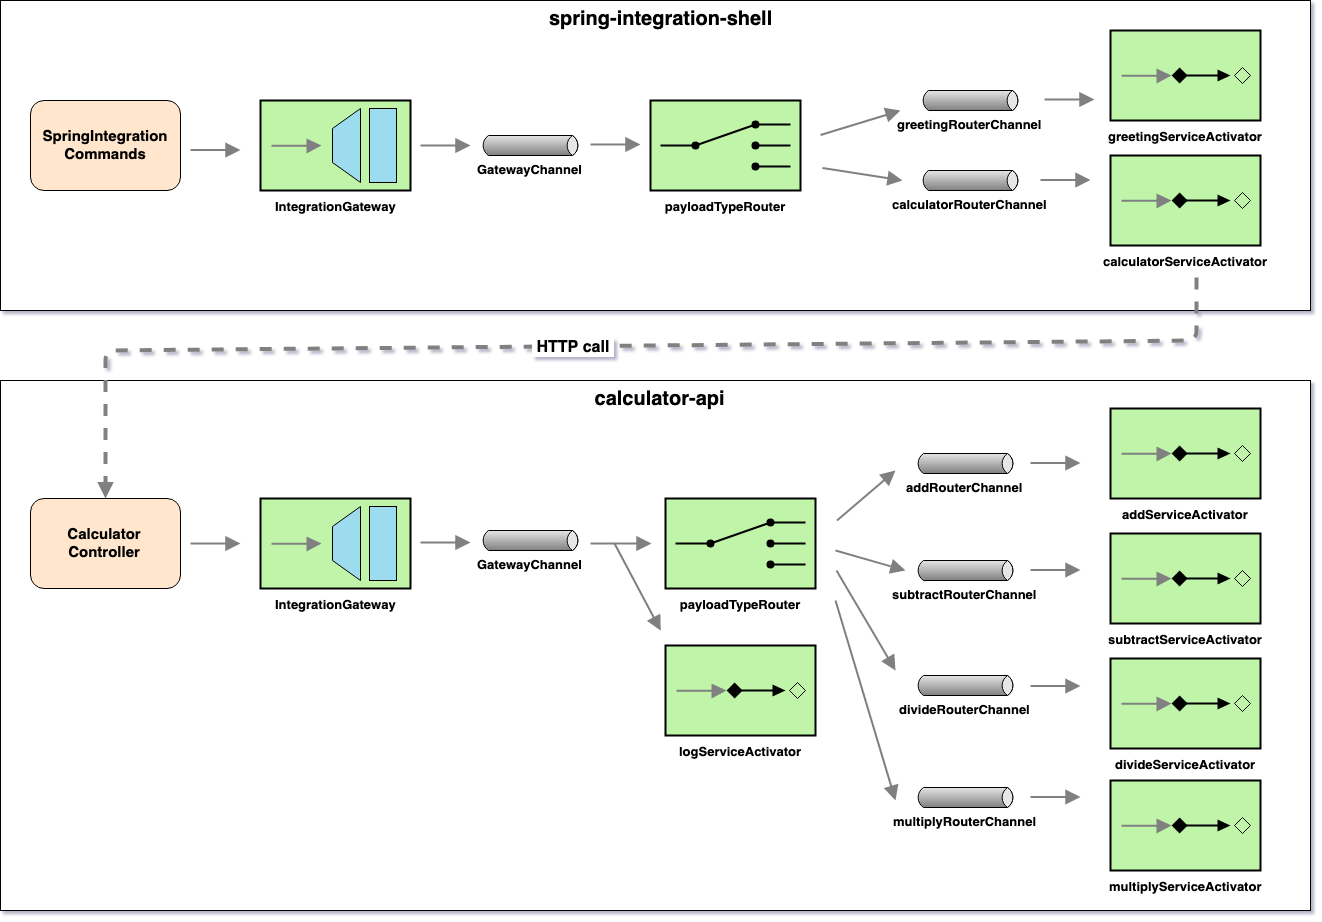
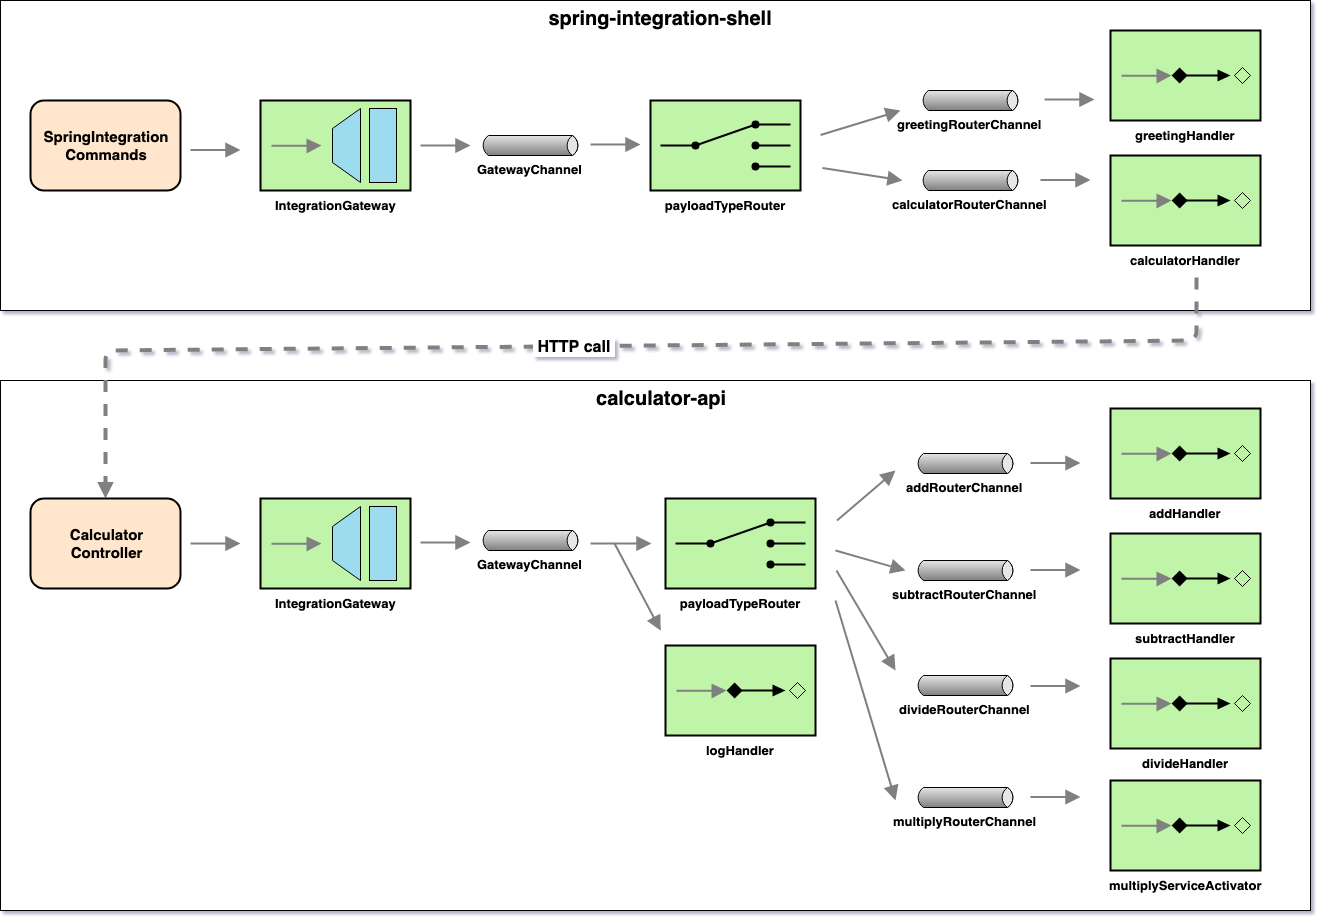
changes - rename service activator annotated methods; - update images and README.

diff --git a/calculator-api/src/main/java/com/mycompany/calculatorapi/service/IntegrationService.java b/calculator-api/src/main/java/com/mycompany/calculatorapi/service/IntegrationService.java
@@ -17,22 +17,22 @@ import java.math.RoundingMode;
 public class IntegrationService {
 
     @ServiceActivator(inputChannel = "gatewayChannel")
-    void logServiceActivator(Message<OperationDto> message) {
+    void logHandler(Message<OperationDto> message) {
         log.info("Received message\n---\nHEADERS: {};\nPAYLOAD: {}\n---", message.getHeaders(), message.getPayload());
     }
 
     @ServiceActivator(inputChannel = "addRouterChannel")
-    public BigDecimal addServiceActivator(@Payload OperationDto operationDto) {
+    public BigDecimal addHandler(@Payload OperationDto operationDto) {
         return operationDto.getA().add(operationDto.getB());
     }
 
     @ServiceActivator(inputChannel = "subtractRouterChannel")
-    public BigDecimal subtractServiceActivator(@Payload OperationDto operationDto) {
+    public BigDecimal subtractHandler(@Payload OperationDto operationDto) {
         return operationDto.getA().subtract(operationDto.getB());
     }
 
     @ServiceActivator(inputChannel = "divideRouterChannel")
-    public BigDecimal divideServiceActivator(@Payload OperationDto operationDto) {
+    public BigDecimal divideHandler(@Payload OperationDto operationDto) {
         try {
             return operationDto.getA().divide(operationDto.getB(), 2, RoundingMode.HALF_EVEN);
         } catch (ArithmeticException e) {
@@ -41,7 +41,7 @@ public class IntegrationService {
     }
 
     @ServiceActivator(inputChannel = "multiplyRouterChannel")
-    public BigDecimal multiplyServiceActivator(@Payload OperationDto operationDto) {
+    public BigDecimal multiplyHandler(@Payload OperationDto operationDto) {
         return operationDto.getA().multiply(operationDto.getB());
     }
 

diff --git a/spring-integration-shell/src/main/java/com/mycompany/springintegrationshell/service/CalculatorApiIntegrationService.java b/spring-integration-shell/src/main/java/com/mycompany/springintegrationshell/service/CalculatorApiIntegrationService.java
@@ -30,7 +30,7 @@ public class CalculatorApiIntegrationService {
     }
 
     @ServiceActivator(inputChannel = "calculatorRouterChannel")
-    public String calculatorServiceActivator(@Payload CalculatorApiDto calculatorApiDto) throws JsonProcessingException {
+    public String calculatorHandler(@Payload CalculatorApiDto calculatorApiDto) throws JsonProcessingException {
         String calculatorApiDtoStr = objectMapper.writeValueAsString(calculatorApiDto);
 
         HttpHeaders headers = new HttpHeaders();

diff --git a/spring-integration-shell/src/main/java/com/mycompany/springintegrationshell/service/GreetingIntegrationService.java b/spring-integration-shell/src/main/java/com/mycompany/springintegrationshell/service/GreetingIntegrationService.java
@@ -11,7 +11,7 @@ import java.time.LocalTime;
 public class GreetingIntegrationService {
 
     @ServiceActivator(inputChannel = "greetingRouterChannel")
-    public String greetingServiceActivator(@Payload GreetingDto greetingDto) {
+    public String greetingHandler(@Payload GreetingDto greetingDto) {
         String greeting;
         LocalTime now = LocalTime.now();
         if (now.isBefore(LocalTime.of(12, 0))) {

diff --git a/README.md b/README.md
@@ -1,6 +1,8 @@
 # `spring-integration-examples`
 
-TODO
+The goal of this project is to learn [`String Integration Framework`](https://docs.spring.io/spring-integration/reference/html/index.html)
+For it, we will implement some [`Spring Boot`](https://spring.io/projects/spring-boot) applications and try to use the
+well known [`Enterprise Integration Patterns`](https://www.enterpriseintegrationpatterns.com/patterns/messaging/toc.html). 
 
 ## Project Architecture
 
@@ -8,27 +10,35 @@ TODO
 
 ## Microservices
 
+### calculator-api
+
+Spring Boot Java Web application that exposes one endpoint `api/calculate` so that users can submit which operation
+(addition, subtraction, division or multiplication) they want to perform over two decimal numbers `a` and `b`.
+
 ### spring-integration-shell
 
-TODO
+Spring Boot Shell Java application that uses `calculator-api` to compute the four basic Math operations: addition,
+subtraction, division and multiplication. All the communication with `calculator-api` is over `HTTP`. Besides, it also
+has the command `greet`, so that you can display a greeting message on the screen.
+
+## Running Microservices
 
 ### calculator-api
 
-TODO
-
-## Running microservices
-
-### calculator-api
-
+Open a terminal and inside `spring-integration-examples` run
 ```
 ./mvnw clean spring-boot:run --projects calculator-api
 ```
 
 ### spring-integration-shell
 
+Open another terminal and inside `spring-integration-examples` root folder, run the command below to package the `jar`
 ```
 ./mvnw clean package --projects spring-integration-shell -DskipTests
+```
 
+Then, still inside `spring-integration-examples`, run the following command to start `spring-integration-shell`
+```
 ./spring-integration-shell/target/spring-integration-shell-1.0.0.jar
 ```
 
